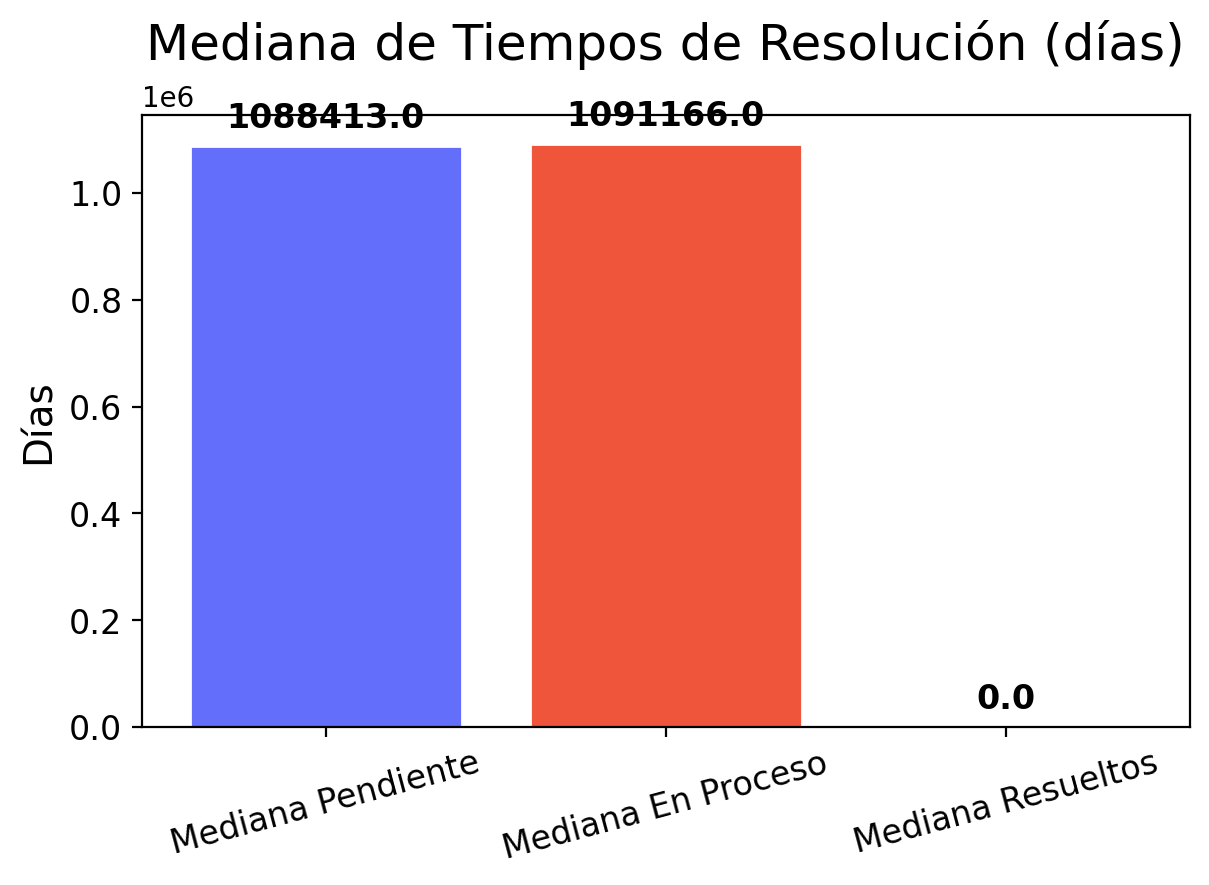
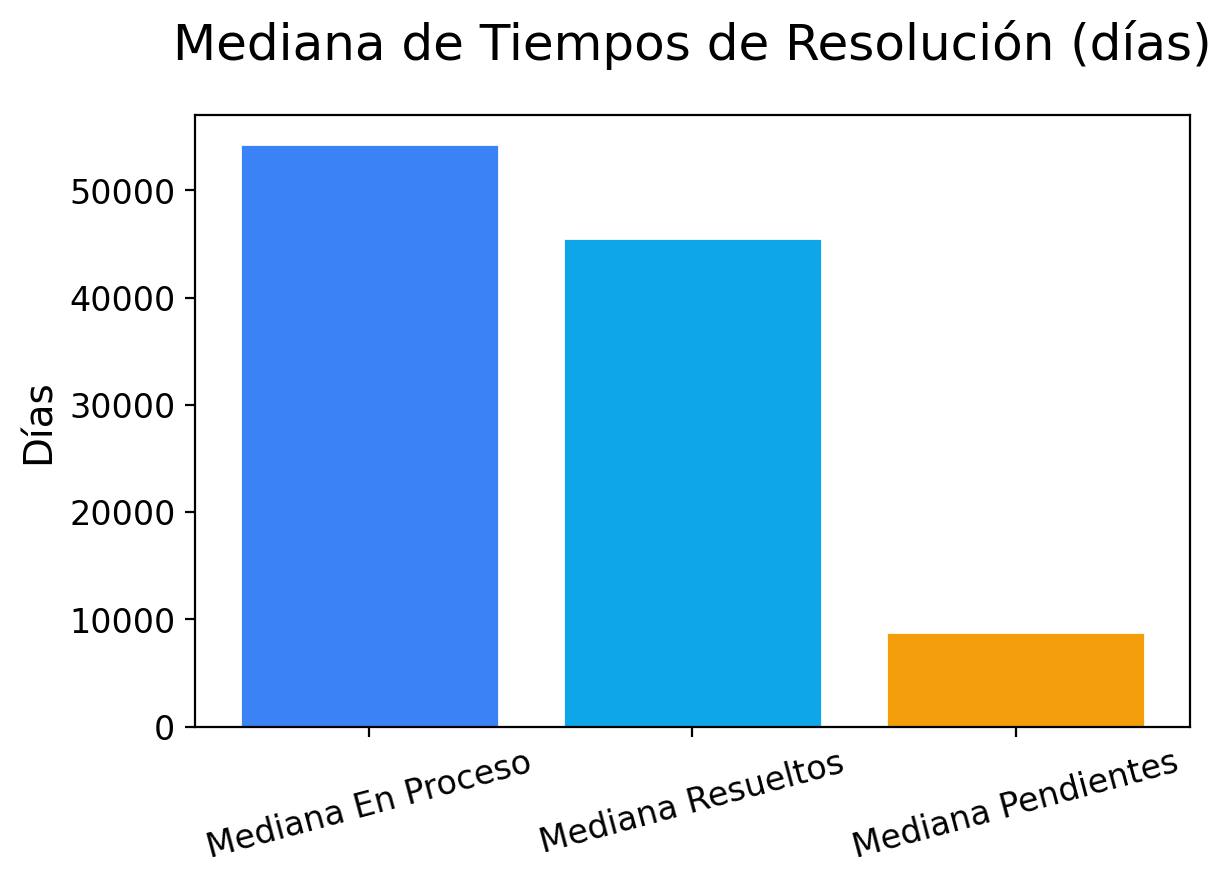
Enhance validation in UsuarioDominio and ReclamoDominio; update .gitignore to exclude database files; improve graph generation functions and update static images

diff --git a/TrabajoPractico_3/proyecto_1/modules/utilidades/graficos.py b/TrabajoPractico_3/proyecto_1/modules/utilidades/graficos.py
@@ -6,7 +6,12 @@ import matplotlib
 matplotlib.use('Agg')  # <-- Agrega esta línea antes de importar pyplot
 from matplotlib import pyplot as plt
     
+colores = [
+    "#3B82F6",  # Azul
+    "#0EA5E9",  # Azul claro
+    "#F59E0B",  # Amarillo
 
+]
 def crear_figura_nube_palabras(datos_palabras: List[Tuple[str, int]]):
     """Crea y devuelve una figura de matplotlib con nube de palabras."""
     diccionario_palabras = dict(datos_palabras)
@@ -15,7 +20,7 @@ def crear_figura_nube_palabras(datos_palabras: List[Tuple[str, int]]):
         width=800,
         height=400,
         background_color='white',
-        colormap='viridis',
+        colormap='Blues',
         relative_scaling=0.5,
         min_font_size=10
     ).generate_from_frequencies(diccionario_palabras)
@@ -34,20 +39,6 @@ def crear_grafico_torta(datos_torta: Dict[str, float]) -> str:
 
     etiquetas = list(datos_torta.keys())
     valores = list(datos_torta.values())
-
-    # --- Estilo de colores similar al de Plotly ---
-    colores = [
-        "#636EFA",  # Azul
-        "#EF553B",  # Rojo coral
-        "#00CC96",  # Verde esmeralda
-        "#AB63FA",  # Violeta
-        "#FFA15A",  # Naranja
-        "#19D3F3",  # Celeste
-        "#FF6692",  # Rosa
-        "#B6E880",  # Verde claro
-        "#FF97FF",  # Fucsia
-        "#FECB52",  # Amarillo
-    ]
 
     # --- Limpieza de gráfico anterior ---
     plt.clf()
@@ -83,15 +74,13 @@ def crear_grafico_torta(datos_torta: Dict[str, float]) -> str:
 
 def crear_barra_mediana(mediana_en_proceso: float, mediana_resueltos: float, mediana_pendiente: float) -> str:
     """Genera un gráfico de barras con estilo tipo Plotly."""
-    categorias = ['Mediana Pendiente', 'Mediana En Proceso', 'Mediana Resueltos']
-    valores = [mediana_pendiente, mediana_en_proceso, mediana_resueltos]
+    categorias = ['Mediana En Proceso', 'Mediana Resueltos', 'Mediana Pendientes']
+    valores = [mediana_en_proceso, mediana_resueltos, mediana_pendiente]
 
-    # --- Colores estilo Plotly ---
-    colores = ["#636EFA",  "#EF553B",  "#00CC96"]  
     plt.clf()
 
     # --- Crear gráfico de barras ---
-    barras = plt.bar(categorias, valores, color=colores, edgecolor='white', linewidth=1)
+    plt.bar(categorias, valores, color=colores, edgecolor='white', linewidth=1)
 
     # --- Estética general ---
     plt.title("Mediana de Tiempos de Resolución (días)", fontsize=18, pad=20)
@@ -103,19 +92,6 @@ def crear_barra_mediana(mediana_en_proceso: float, mediana_resueltos: float, med
     plt.gca().set_facecolor('none')  # Fondo del gráfico transparente
     plt.gcf().patch.set_alpha(0)     # Fondo del lienzo transparente
     plt.tight_layout(pad=2.0)
-
-    # --- Añadir valores encima de las barras ---
-    for barra in barras:
-        y = barra.get_height()
-        plt.text(
-            barra.get_x() + barra.get_width() / 2,
-            y + (max(valores) * 0.02),
-            f"{y:.1f}",
-            ha='center',
-            va='bottom',
-            fontsize=12,
-            weight='bold'
-        )
 
     # --- Guardar imagen ---
     ruta = "static/grafico_barra_mediana.png"

diff --git a/TrabajoPractico_3/proyecto_1/modules/dominio/usuario.py b/TrabajoPractico_3/proyecto_1/modules/dominio/usuario.py
@@ -6,40 +6,76 @@ class UsuarioDominio(ABC):
     def __init__(self, nombre: str, apellido: str, email: str, usuario: str, 
                  password: str, id: int = None):
         self.id = id
-        self.__nombre = nombre
-        self.__apellido = apellido
-        self.__email = email
-        self.__usuario = usuario
-        self.__password = password
+        self.nombre = nombre
+        self.apellido = apellido
+        self.email = email
+        self.usuario = usuario
+        self.password = password
 
     @property
     def password(self):
         return self.__password
+    @password.setter
+    def password(self, valor: str):
+        if not valor or len(valor) < 4:
+            raise ValueError("La contraseña debe tener al menos 4 caracteres")
+        self.__password = valor  
 
     @property
     def nombre(self):
         return self.__nombre
+    @nombre.setter
+    def nombre(self, valor: str):
+        if not valor or not valor.strip():
+            raise ValueError("El nombre no puede estar vacío")
+        self.__nombre = valor.strip().title()
+
     @property
     def apellido(self):
         return self.__apellido
+    @apellido.setter
+    def apellido(self, valor: str):
+        if not valor or not valor.strip():
+            raise ValueError("El apellido no puede estar vacío")
+        self.__apellido = valor.strip().title()
+
     @property
     def email(self):
         return self.__email
+    @email.setter
+    def email(self, valor: str):
+        if not valor or "@" not in valor or "." not in valor:
+            raise ValueError("Email inválido")
+        self.__email = valor.strip().lower()
+
     @property
     def usuario(self):
         return self.__usuario
+    @usuario.setter
+    def usuario(self, valor: str):
+        if not valor or len(valor.strip()) < 3:
+            raise ValueError("El usuario debe tener al menos 3 caracteres")
+        self.__usuario = valor.strip().lower()
 
 
 class UsuarioFinal(UsuarioDominio):
     def __init__(self, nombre: str, apellido: str, email: str, usuario: str, 
                  claustro: str, password: str, id: int = None):
         super().__init__(nombre, apellido, email, usuario, password, id)
-        self.__claustro = claustro
+        self.claustro = claustro
         self.__reclamos_creados = []
         self.__reclamos_adheridos = []
     @property
     def claustro(self):
         return self.__claustro
+    @claustro.setter
+    def claustro(self, valor: str):
+        if not valor or not valor.strip():
+            raise ValueError("El claustro no puede estar vacío")
+        if valor.strip().lower() not in ['estudiante', 'docente', 'pays']:
+            raise ValueError("El claustro debe ser 'estudiante', 'docente' o 'no docente'")
+        self.__claustro = valor.strip().lower()
+
     def agregar_reclamo_creado(self, reclamo: int):
         if any(r == reclamo for r in self.__reclamos_creados):
             raise ValueError("Reclamo ya agregado")

diff --git a/TrabajoPractico_3/proyecto_1/modules/utilidades/comparador_de_reclamos.py b/TrabajoPractico_3/proyecto_1/modules/utilidades/comparador_de_reclamos.py
@@ -1,12 +1,22 @@
-from typing import List, Tuple
+import subprocess
+from typing import List
 from sklearn.feature_extraction.text import TfidfVectorizer
 from sklearn.metrics.pairwise import cosine_similarity
 import spacy
-import string
 from modules.dominio.reclamo import ReclamoDominio
 from abc import ABC, abstractmethod
 
-nlp = spacy.load("es_core_news_sm")
+def cargar_modelo_spacy(model_name: str):
+    try:
+        # Intentar cargar el modelo spaCy
+        return spacy.load(model_name)
+    except OSError:
+        # Si falla, descargar el modelo
+        print(f"Modelo '{model_name}' no encontrado. Descargando...")
+        subprocess.run([f"python", "-m", "spacy", "download", model_name], check=True)
+        return spacy.load(model_name)
+
+nlp = cargar_modelo_spacy("es_core_news_sm")
 
 class ComparadorDeReclamosABC(ABC):
     @abstractmethod
@@ -17,9 +27,8 @@ class ComparadorDeReclamos(ComparadorDeReclamosABC):
     def __init__(self):
         self.__vectorizer = TfidfVectorizer()  # Para vectorizar textos
         self.__stop_words = nlp.Defaults.stop_words  # Stopwords de spaCy
-        # No necesitamos un stemmer con spaCy, ya que usaremos lematización
 
-    def preprocesar_texto(self, texto: str) -> str:
+    def __preprocesar_texto(self, texto: str) -> str:
         """
         Limpia y normaliza el texto: minúsculas, quita puntuación, lematización.
         """
@@ -44,8 +53,8 @@ class ComparadorDeReclamos(ComparadorDeReclamosABC):
             return []
 
         # Preprocesar todos los textos
-        contenidos_existentes = [self.preprocesar_texto(r.contenido) for r in reclamos_existentes]
-        nuevo_preprocesado = self.preprocesar_texto(nuevo_contenido)
+        contenidos_existentes = [self.__preprocesar_texto(r.contenido) for r in reclamos_existentes]
+        nuevo_preprocesado = self.__preprocesar_texto(nuevo_contenido)
 
         # Vectorizar
         todos_contenidos = contenidos_existentes + [nuevo_preprocesado]
@@ -53,9 +62,6 @@ class ComparadorDeReclamos(ComparadorDeReclamosABC):
 
         # Calcular similitud coseno entre el nuevo (último) y los existentes
         similitudes = cosine_similarity(tfidf_matrix[-1], tfidf_matrix[:-1]).flatten()
-
-        # Filtrar por umbral y ordenar
-        similares = [reclamos_existentes[i] for i in range(len(similitudes)) if similitudes[i] >= umbral]
 
         # Ordenar los reclamos por la similitud en orden descendente
         similares = [reclamos_existentes[i] for i in sorted(range(len(similitudes)), key=lambda i: similitudes[i], reverse=True) if similitudes[i] >= umbral]

diff --git a/TrabajoPractico_3/proyecto_1/modules/modelos/usuarioModel.py b/TrabajoPractico_3/proyecto_1/modules/modelos/usuarioModel.py
@@ -11,7 +11,7 @@ class UsuarioModel(Base):
     email = Column(String(100), nullable=False, unique=True, index=True)
     usuario = Column(String(50), nullable=False, unique=True, index=True)
     claustro = Column(String(25), nullable=True)
-    password = Column(String(255), nullable=False)  # Hasheada
+    password = Column(String(255), nullable=False)  
     rol = Column(String(20), nullable=True)
     departamento_id = Column(Integer, ForeignKey('departamentos.id'), nullable=True)
 

diff --git a/TrabajoPractico_3/proyecto_1/modules/modelos/adhesionModel.py b/TrabajoPractico_3/proyecto_1/modules/modelos/adhesionModel.py
@@ -7,7 +7,7 @@ from . import Base
 class AdhesionModel(Base):
     __tablename__ = 'adhesiones'
 
-    id = Column(Integer, primary_key=True, autoincrement=True)  # Opcional, por convención
+    id = Column(Integer, primary_key=True, autoincrement=True)  
     usuario_id = Column(Integer, ForeignKey('usuarios.id'), nullable=False, index=True)
     reclamo_id = Column(Integer, ForeignKey('reclamos.id'), nullable=False, index=True)
 

diff --git a/TrabajoPractico_3/proyecto_1/server.py b/TrabajoPractico_3/proyecto_1/server.py
@@ -1,9 +1,3 @@
-# Suprimir warnings
-import warnings
-warnings.filterwarnings("ignore", category=UserWarning)
-warnings.filterwarnings("ignore", message=".*InconsistentVersionWarning.*")
-warnings.filterwarnings("ignore", module="sklearn")
-
 from datetime import datetime
 from flask import redirect, render_template, request, url_for, session,flash
 from modules.config import app, login_manager

diff --git a/TrabajoPractico_3/proyecto_1/modules/dominio/reclamo.py b/TrabajoPractico_3/proyecto_1/modules/dominio/reclamo.py
@@ -44,6 +44,8 @@ class ReclamoDominio:
 
     @timestamp_modificacion.setter
     def timestamp_modificacion(self, nuevo_timestamp: datetime):
+        if not isinstance(nuevo_timestamp, datetime):
+            raise ValueError("timestamp_modificacion debe ser un objeto datetime")
         self.__timestamp_modificacion = nuevo_timestamp
         
     @departamento_id.setter

diff --git a/TrabajoPractico_3/proyecto_1/modules/gestores/dashboardService.py b/TrabajoPractico_3/proyecto_1/modules/gestores/dashboardService.py
@@ -114,5 +114,6 @@ if __name__ == "__main__":
     dashboard_service = DashboardService(usuario_repo, reclamo_repo)
     analiticas = dashboard_service.obtener_analiticas(id_departamento=1, id_usuario=1)
     print(analiticas)
+    
 
 
